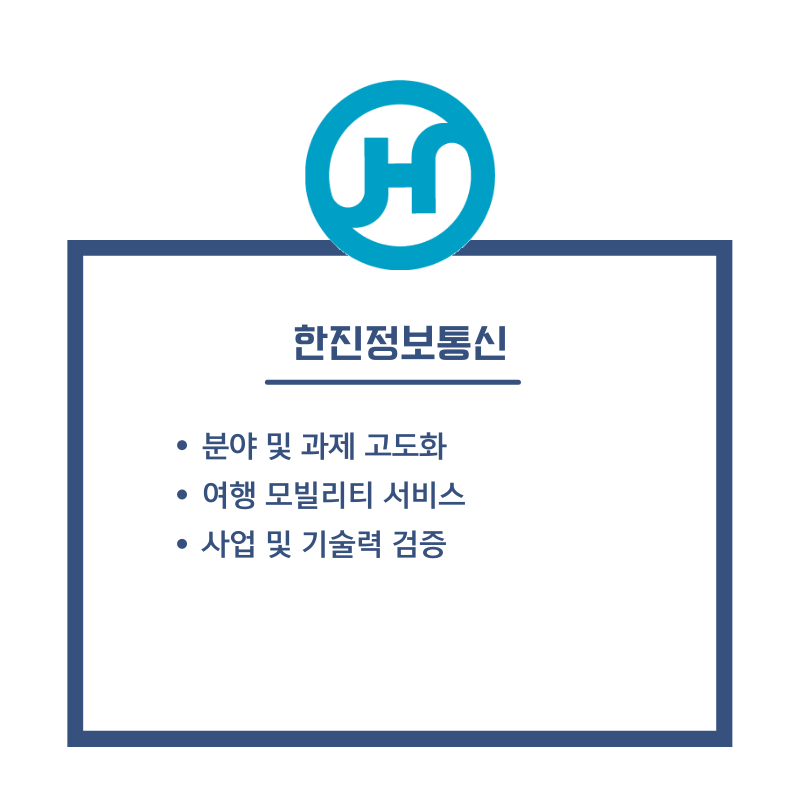
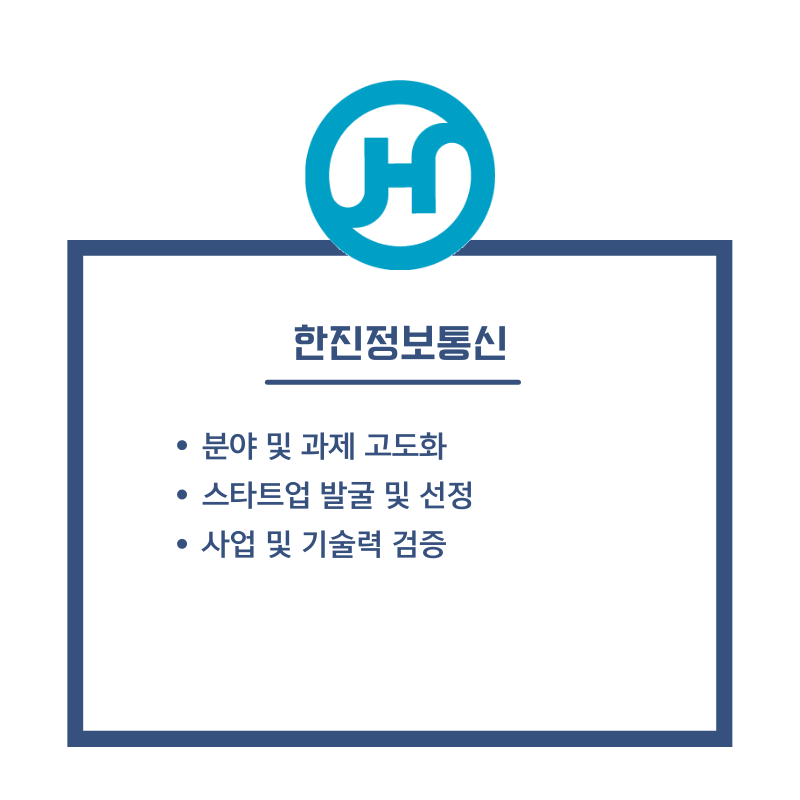
이미지 및 폰트 조율
이미지 파일 추가 및 오타 수정 등 이미지 관련 작업 커밋

Changed region(s): [[0.25, 0.5938, 0.5938, 0.6562]]

diff --git a/src/views/program/StartupSourcing.js b/src/views/program/StartupSourcing.js
@@ -8,13 +8,38 @@ const StartupSourcing = () => {
                     <div className='container'>
                         <div className="section-title">
                             <h2>스타트업 소싱</h2>
-                            <p>체계적이고 명확한 프로세스를 통해 최적의 스타트업을 소싱하실 수 있도록 돕습니다.</p>
+                            <p style={{fontSize:'18px', textAlign : 'center'}}>체계적이고 명확한 프로세스를 통해 최적의 스타트업을 소싱하실 수 있도록 돕습니다.</p>
                         </div>
-                        <div className='row'>
+                        <div className="row">
+                            <div className="col-xl-3 col-md-4 d-flex align-items-stretch" data-aos="zoom-in" data-aos-delay="100">
+                                <div className="icon-box" style={{ padding: '10px' }}>
+                                    <img src={require('../../assets/img/program/Startup_Sourcing_1.png').default} className="img-fluid" style={{ width: '100%' }} alt=""></img>
+                                </div>
+                            </div>
+
+                            <div className="col-xl-3 col-md-4 d-flex align-items-stretch" data-aos="zoom-in" data-aos-delay="100">
+                                <div className="icon-box" style={{ padding: '10px' }}>
+                                    <img src={require('../../assets/img/program/Startup_Sourcing_2.png').default} className="img-fluid" style={{ width: '100%' }} alt=""></img>
+                                </div>
+                            </div>
+
+                            <div className="col-xl-3 col-md-6 d-flex align-items-stretch" data-aos="zoom-in" data-aos-delay="100">
+                                <div className="icon-box" style={{ padding: '10px' }}>
+                                    <img src={require('../../assets/img/program/Startup_Sourcing_3.png').default} className="img-fluid" style={{ width: '100%' }} alt=""></img>
+                                </div>
+                            </div>
+
+                            <div className="col-xl-3 col-md-6 d-flex align-items-stretch" data-aos="zoom-in" data-aos-delay="100">
+                                <div className="icon-box" style={{ padding: '10px' }}>
+                                    <img src={require('../../assets/img/program/Startup_Sourcing_4.png').default} className="img-fluid" style={{ width: '100%' }} alt=""></img>
+                                </div>
+                            </div>
+                        </div>
+                        {/* <div className='row'>
                             <div className='col-lg  hero-img' data-aos="zoom-in" data-aos-delay="200">
                                 <img src={require('../../assets/img/program/Startup_Sourcing_Infographic_2nd_Resize.png').default} className='img-fluid' alt=''></img>
                             </div>
-                        </div>
+                        </div> */}
                     </div>
                 </section>
             </>

diff --git a/src/views/intro/IntroElements.js b/src/views/intro/IntroElements.js
@@ -21,7 +21,7 @@ export const IntroElements =
                 </div>
                 <div className="row content">
                     <div className="section-title">
-                        <p style={{fontSize:'20px'}}>
+                        <p style={{fontSize:'18px'}}>
                             <br /><span style={{fontFamily:'Jost', textTransform:'uppercase'}}>InnoHI</span>는 <span style={{ color: 'rgb(253, 142, 77)' }}>Inno</span>vation for <span style={{ color: 'rgb(253, 142, 77)' }}>H</span>anjin's Future <span style={{ color: 'rgb(253, 142, 77)' }}>I</span>nsight의 줄임말로
                             <br />새로운 시각으로 디지털 사회를 대비하기 위한 한진정보통신의 미래 혁신 프로그램입니다.
                         </p>   
@@ -158,15 +158,15 @@ export const TrinityElements =
         <div className="container" data-aos="fade-up">
 
             <div className="section-title">
-                <h2>innoHI 비전</h2>
-                <p style={{fontSize:'20px'}}><span style={{fontFamily:'Jost', textTransform:'uppercase', fontWeight:'bold'}}>InnoHI</span>는 한진정보통신을 중심으로 그룹사협의체, 스타트업이 3자 협력체계를 구축하고, 협력, 연계하여 새로운 비즈니스 발굴의 기회를 창출하고 있습니다.</p>
+                <h2>innoHI 비전</h2>               
             </div>
-            <div className='align-items-center justify-content-center' style={{ textAlign : 'center'}}>
+            <div className='align-items-center justify-content-center' style={{ textAlign : 'center', marginBottom: '80px' }}>
                 <img src={require('../../assets/img/main/intro/TrinityElements_resize.png').default} className='img-fluid' style={{ width: '60%'}} alt='스타트업 생태계'></img>
-            </div>            
+            </div>
+            <p style={{fontSize:'18px', textAlign : 'center'}}><span style={{fontFamily:'Jost', textTransform:'uppercase', fontWeight:'bold'}}>InnoHI</span>는 한진정보통신을 중심으로 그룹사 협의체, 스타트업이 3자 협력체계를 구축하고<br />협력, 연계하여 새로운 비즈니스 발굴의 기회를 창출하고 있습니다.</p>            
         </div>        
         <br />        
-        <div className="container" data-aos="fade-up" style={{ textAlign: 'center', marginTop: '61px' }}>
+        <div className="container" data-aos="fade-up" style={{ textAlign: 'center'}}>
             <div className="row">
                 <div className="col-xl-4 col-md-4 d-flex align-items-stretch" data-aos="zoom-in" data-aos-delay="100">
                     <div className="icon-box" style={{ padding: '10px' }}>

diff --git a/src/views/program/Suggestion.js b/src/views/program/Suggestion.js
@@ -9,12 +9,15 @@ const Suggestion = () => {
       <div className='row'>
         <div className='col-lg-6 d-flex flex-column justify-content-center pt-4 pt-lg-0 order-2 order-lg-1' data-aos="fade-up" data-aos-delay="200">
           <h1><span style={{ color: 'rgb(253, 142, 77)' }}>협업제안</span></h1>
-          <h2>한진그룹과 협업하고 싶은 분야/주제에<br />대해 자유롭게 제안하실 수 있습니다</h2>
+          <h2 style={{marginTop:'15px'}}>
+          <span style={{fontFamily:'Jost', textTransform:'uppercase', fontWeight:'bold'}}>InnoHI</span>는 새로운 도전을 환영합니다<br /><br />
+            한진그룹과 협업하고 싶은 분야/주제에<br />대해 자유롭게 제안해 주세요
+          </h2>
           <div className='d-flex justify-content-center justify-content-lg-start'>
           </div>
         </div>
         <div className='col-lg-6 order-1 order-lg-2 hero-img' data-aos="zoom-in" data-aos-delay="200">
-          <img src={require('../../assets/img/intro/histroy/travel.jpg').default} className='img-fluid animated' alt=''></img>
+          <img src={require('../../assets/img/intro/histroy/suggestion.png').default} className='img-fluid animated' alt=''></img>
         </div>
       </div>
     </div>
@@ -27,8 +30,7 @@ const Suggestion = () => {
           <div className="container" data-aos="fade-up">
 
             <div className="section-title">
-              <h2>협업제안</h2>
-              <p style={{ fontSize: '18px'}}>한진그룹과 협업하고 싶은 분야/주제에 대해 자유롭게 제안하실 수 있습니다</p>
+              <h2>innoHI가 도와드려요</h2>
             </div>
 
             <div className="row">

diff --git a/src/views/main/MainElements.js b/src/views/main/MainElements.js
@@ -7,13 +7,10 @@ export const heroElements =
       <div className='row'>
         <div className='col-lg-6 d-flex flex-column justify-content-center pt-4 pt-lg-0 order-2 order-lg-1' data-aos="fade-up" data-aos-delay="200">
           <h1><span style={{ color: 'rgb(253, 142, 77)' }}>Inno</span>vation for <span style={{ color: 'rgb(253, 142, 77)' }}>H</span>anjin's Future <span style={{ color: 'rgb(253, 142, 77)' }}>I</span>nsight</h1>
-          <h2>HIST에서는 신기술 도입과 혁신 성장을 위한 <br />오픈 이노베이션 프로그램 '<span style={{fontFamily:'Jost', textTransform:'uppercase'}}>InnoHI</span>' 를 운영하고 있습니다</h2>
-          <div className='d-flex justify-content-center justify-content-lg-start'>
-            <a href='/council'><div className='btn-get-started scrollto'>협의체공간</div></a>
-          </div>
+          <h2 style={{marginTop:'15px'}}>HIST에서는 신기술 도입과 혁신 성장을 위한 <br />오픈 이노베이션 프로그램 '<span style={{fontFamily:'Jost', textTransform:'uppercase'}}>InnoHI</span>' 를 운영하고 있습니다</h2>
         </div>
         <div className='col-lg-6 order-1 order-lg-2 hero-img' data-aos="zoom-in" data-aos-delay="200">
-          <img src={require('../../assets/img/main/intro/TrinityElements_innoHI_White.png').default} className='img-fluid animated' alt=''></img>
+          <img src={require('../../assets/img/main/intro/TrinityElements_innoHI_White.png').default} className='img-fluid animated' style={{ width: '70%' }} alt=''></img>
         </div>
       </div>
     </div>
